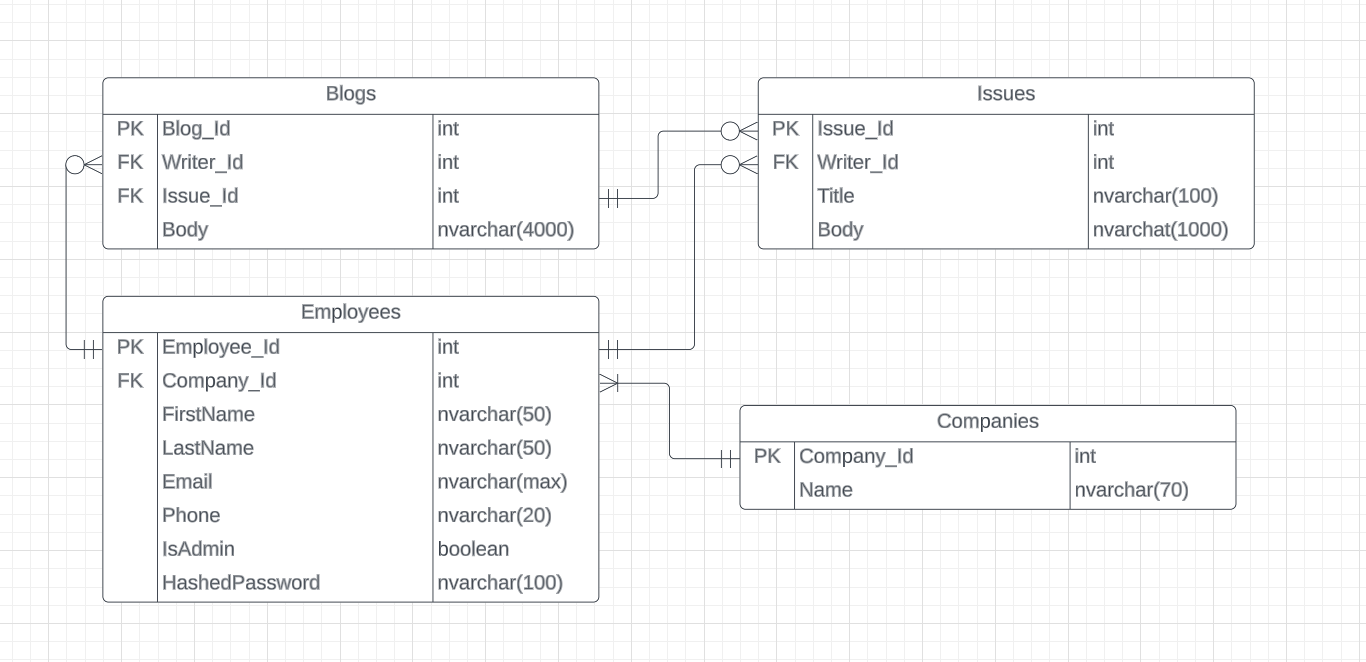
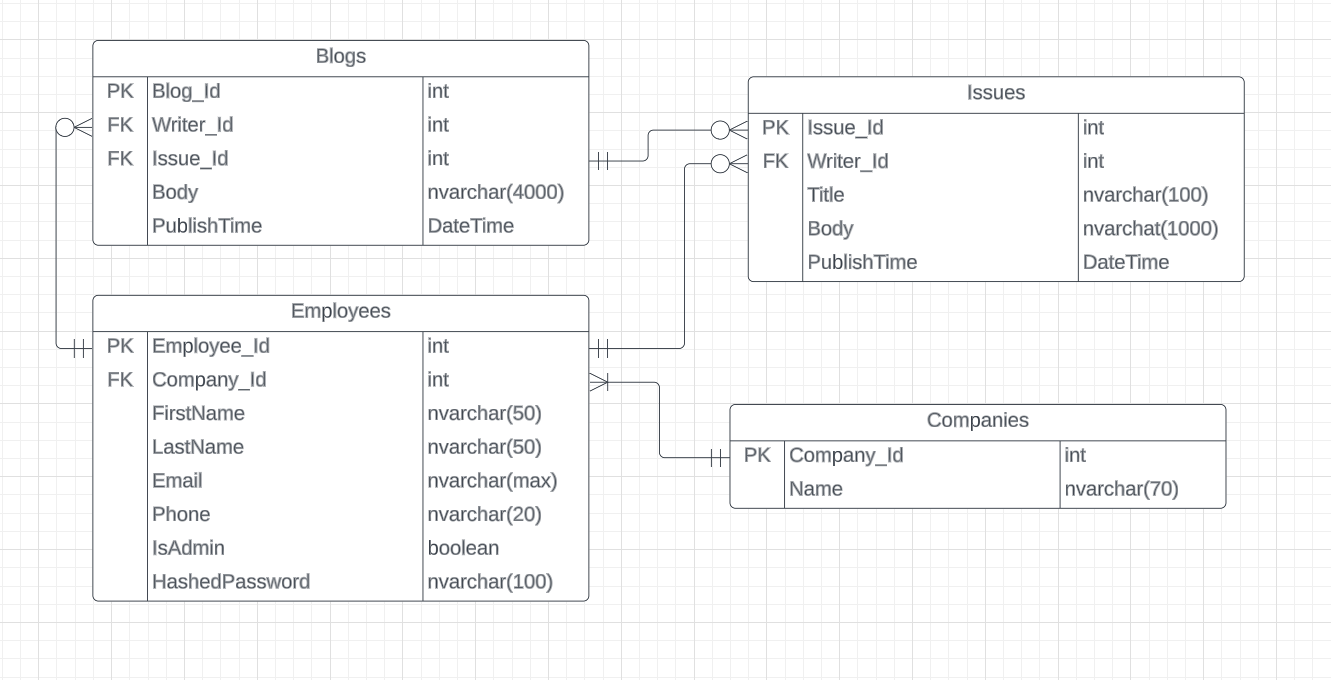
Adding PublishTime To the Blogs and Issues tables

diff --git a/KodikosSolution/Kodikos.API/Entities/Issue.cs b/KodikosSolution/Kodikos.API/Entities/Issue.cs
@@ -27,4 +27,8 @@ public partial class Issue
     [ForeignKey("WriterId")]
     [InverseProperty("Issues")]
     public virtual Employee? Writer { get; set; }
+
+    [Required]
+    [Column(TypeName = "DateTime")]
+    public DateTime PublishTime { get; set; }
 }
